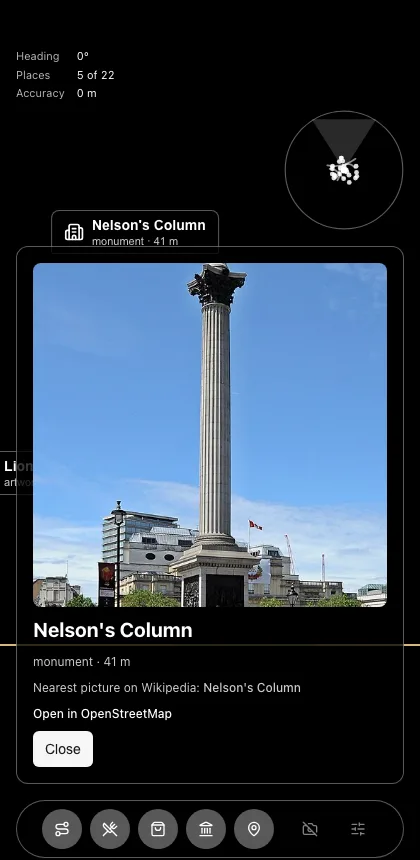
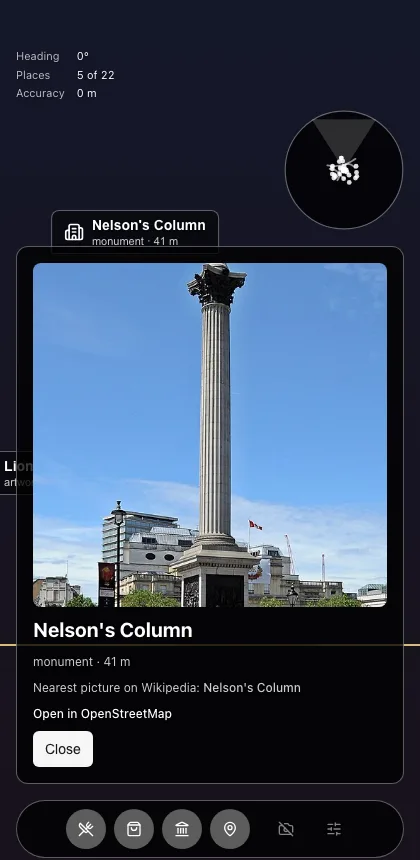
docs: finish the screenshot and journey-doc refresh
The rest of the previous commit: the recaptured labels and detail shots
and the journey doc's rewritten roll section, left unstaged by a bad git
add that failed silently on the already-deleted rolled.webp path.

diff --git a/documentation/docs/journey/mixed-reality-map.md b/documentation/docs/journey/mixed-reality-map.md
@@ -8,7 +8,7 @@ Labelling the world through a phone camera turned out to be three problems that 
 like one: knowing where the camera points, knowing what is out there, and drawing the answer
 so it can be read. Each had a wrong first answer that seemed obviously right.
 
-![Named places over the camera feed with street lines and the icon bar](/img/mixed-reality-map/labels.webp)
+![Named places as building cards over the street line and the icon bar](/img/mixed-reality-map/labels.webp)
 
 The camera starts off, which is the actual default rather than a stand-in for a screenshot: the
 overlay reads the same way over the plain background it draws on here as it does over the live
@@ -45,10 +45,10 @@ up, and rolled into landscape.
 ```mermaid
 flowchart LR
   A["alpha, beta, gamma"] --> B["One rotation"]
-  B --> C["Backward axis<br/>heading and pitch"]
+  B --> C["Backward axis<br/>heading"]
   B --> D["World up on screen<br/>roll"]
-  C --> E["Where a label goes"]
-  D --> F["How far the layer turns"]
+  C --> E["Where a card goes"]
+  D --> F["Roll readout in calibration"]
 ```
 
 One platform difference survives this. WebKit reports a relative first angle and publishes
@@ -56,36 +56,28 @@ the absolute compass separately, where every other engine puts the absolute valu
 angle itself. Rather than branching downstream, the compass reading substitutes for the angle
 before the rotation is built, which leaves a single path through the maths.
 
-## Rotating the overlay is what makes it look fixed
+## Rotating the overlay turned out to be the wrong instinct after all
 
-The instinct is to hold the labels upright, the way a map's text stays upright. That is
-exactly backwards. Upright text is painted on the glass and travels with the phone, and a
-viewer reads it as an interface. Text that turns against the phone stays square to the
-horizon, and a viewer reads it as part of the street.
+The first answer rotated the whole layer against the phone's roll. The reasoning read well at
+the time: upright text is painted on the glass and travels with the phone, so a viewer reads it
+as an interface, while text that turns against the phone stays square to the horizon and reads
+as part of the street. Because every label turned by the same amount, the layer turned once
+rather than each label being placed into an already-turned frame.
 
-Because every label turns by the same amount, the layer turns once rather than each label
-being placed into an already-turned frame. That also keeps the placement arithmetic in a
-frame where up is up.
+Getting there took two real bugs, both invisible on a desk. A device lying flat has no horizon —
+the plumb line points straight through the screen — so its roll is whichever way the last of the
+sensor noise fell, and had to be held rather than followed. And roll is an angle: blending it as
+a plain number sent the overlay the long way round half a turn every time it crossed the wrap.
+Both looked identical to the projection being wrong, which is what made them worth writing down
+even after the rotation they were fixing was itself dropped.
 
-The page must then not turn as well, or the same rotation happens twice. Locking the page to
-portrait is the honest fix; where a platform ignores the lock, the rotation the browser
-already applied is subtracted back out — but only when the page has visibly taken it. Some
-browsers report the angle the device is held at rather than the one the document was turned
-by, and believing that turns the overlay a quarter turn while the page is plainly still
-portrait. The viewport's own shape is the check: a portrait viewport has not been rotated,
-whatever the angle claims.
-
-Two more ways to be spun a quarter turn by nothing, both of which took a phone to find. A
-device lying flat has no horizon — the plumb line points straight through the screen — so its
-roll is whichever way the last of the sensor noise fell, and it has to be held rather than
-followed. And roll is an angle: blending it as a plain number sends the overlay the long way
-round half a turn every time it crosses the wrap. Neither shows up on a desk, and both look
-identical to the projection being wrong.
-
-![The same labels with the phone rolled into landscape, turned against the still-portrait page](/img/mixed-reality-map/rolled.webp)
-
-The page is still portrait in that shot. The phone has been rolled a quarter turn, and the
-labels have turned the other way to stay square to the world.
+It was dropped once cards stopped answering to the phone's pitch as well. A label that turns to
+stay "square to the world" only reads that way when its position is also answering to the real
+world; once every card sits on a fixed row regardless of pitch, a card that still rotated with
+roll would be turning to match a world it had already stopped tracking in every other way. Roll
+is still read and smoothed the same way, the wrap and the flat-phone cases included, and the
+lock to portrait still stands so the video feed and the layout do not reflow — the overlay
+itself simply stopped answering to it. A card stays upright no matter how the phone is held.
 
 ## Everything on the horizon is everything in one place
 
@@ -165,9 +157,12 @@ cannot be turned.
 
 ![A tapped place with its picture, beside the plan view in the corner](/img/mixed-reality-map/detail.webp)
 
-Which kinds of thing are named is a row of icon toggles along the bottom rather than a setting
+Which kinds of place are named is a row of icon toggles along the bottom rather than a setting
 behind a button, because it is the control that gets used while walking: a street of shops is a
-wall of names, and turning four of the five kinds off is how you find the one you wanted.
+wall of names, and turning three of the four kinds off is how you find the one you wanted.
+Streets are not one of the four: they are a different kind of thing shown at the same time as
+places rather than a category to switch between them, so the line is always drawn and never one
+of the toggles.
 
 ## The map is drawn, not fetched
 
